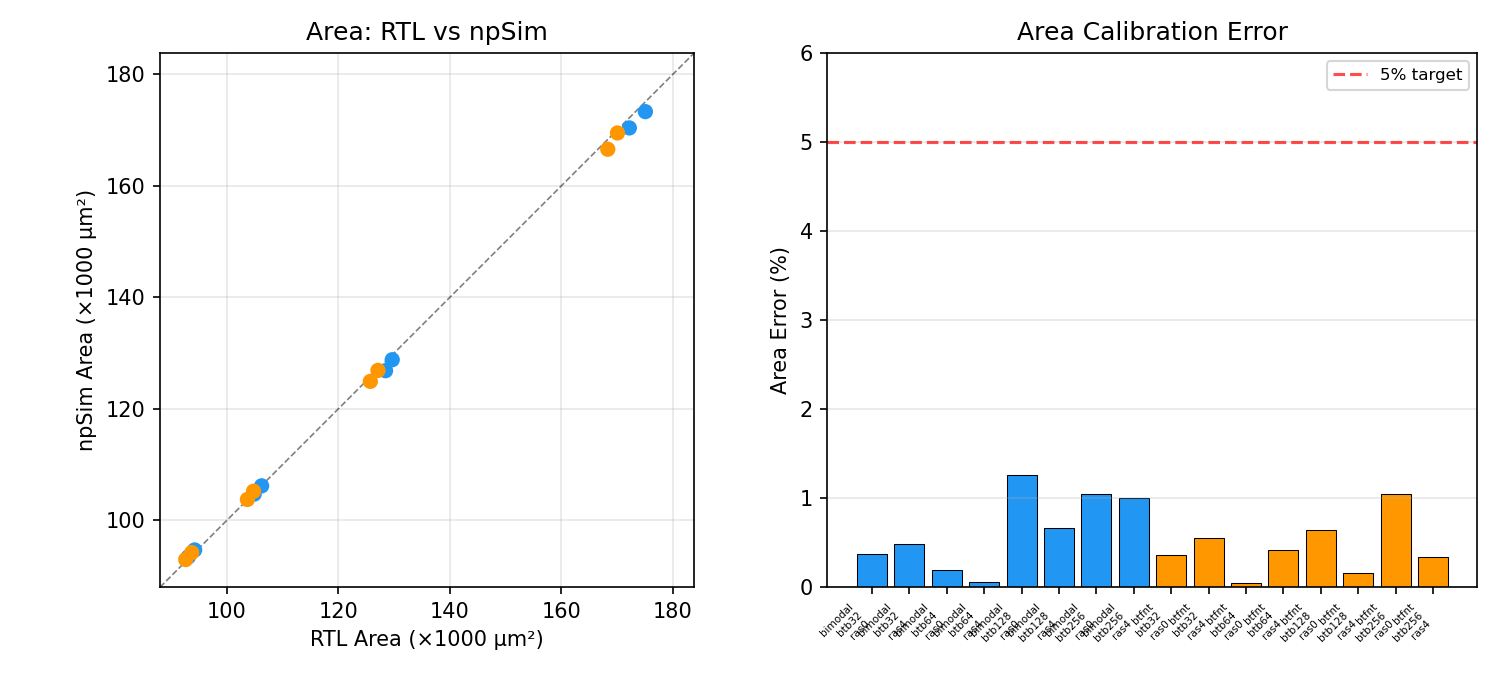
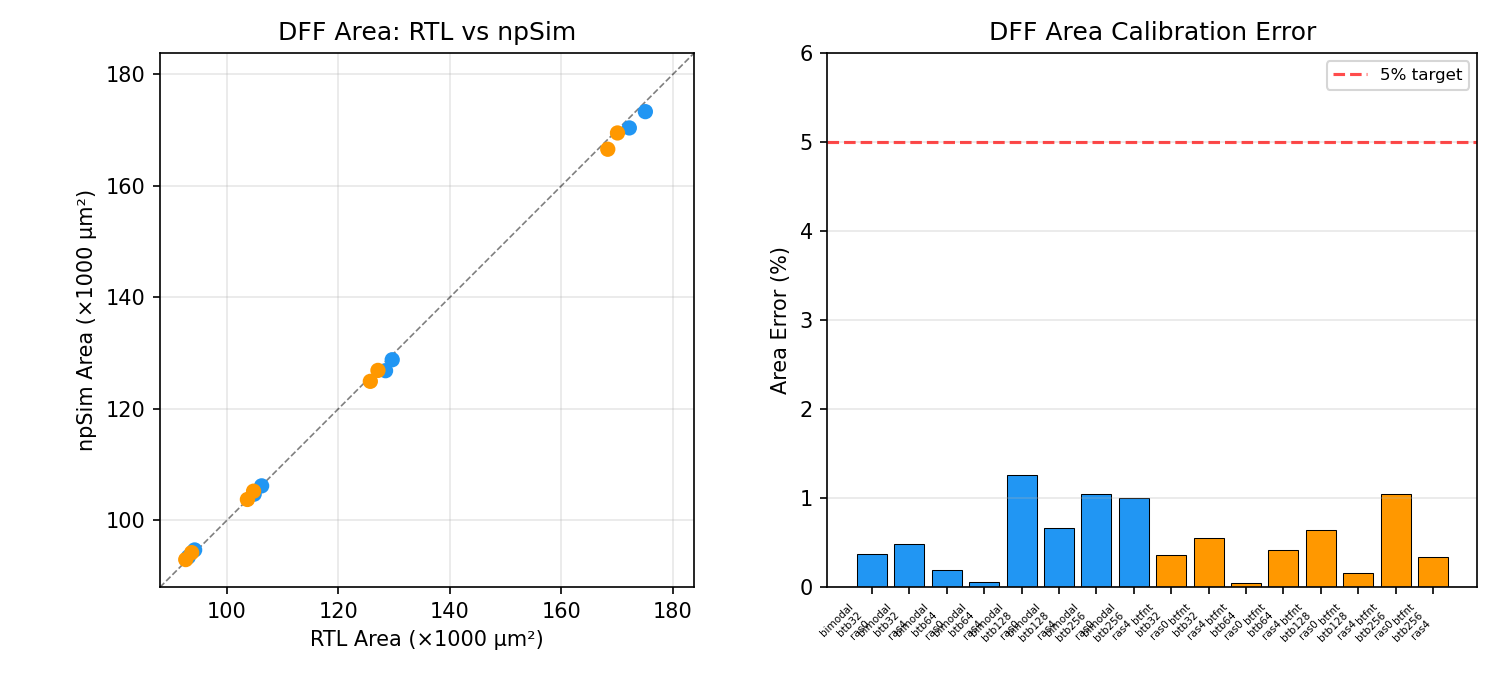
BPU area: SRAM BTB model and calibration plots
- BTBBase: support sramlib flag; when true, report tag/target arrays
  as sram_macro objects instead of timing_bits (DFF). validArr/typeArr
  remain DFF.
- CompressedBTB: pass sramlib flag through constructor.
- create_btb(): forward sram_dff flag from CLI to CompressedBTB.
- gen_bpu_plots.py: add SRAM area calibration plot, DFF-vs-SRAM
  comparison plot. Hardcode both DFF and SRAM RTL area data.
- SRAM area calibration: max error 3.4%, avg ~2.3% across 16 configs.
- DFF area calibration: unchanged, max error 1.27%.

Changed region(s): [[0.644, 0.0311, 0.8893, 0.0622], [0.184, 0.0311, 0.3987, 0.0622]]

diff --git a/visual/plots/gen_bpu_plots.py b/visual/plots/gen_bpu_plots.py
@@ -37,6 +37,28 @@ RTL_AREA = {
     ("btfnt", 256, 0): 168313, ("btfnt", 256, 4): 170057,
 }
 
+RTL_AREA_SRAM = {
+    ("bimodal", 32, 0): 30432, ("bimodal", 32, 4): 31761,
+    ("bimodal", 64, 0): 32593, ("bimodal", 64, 4): 34284,
+    ("bimodal", 128, 0): 36742, ("bimodal", 128, 4): 39366,
+    ("bimodal", 256, 0): 45194, ("bimodal", 256, 4): 49116,
+    ("btfnt", 32, 0): 29963, ("btfnt", 32, 4): 31347,
+    ("btfnt", 64, 0): 31424, ("btfnt", 64, 4): 33040,
+    ("btfnt", 128, 0): 34289, ("btfnt", 128, 4): 36694,
+    ("btfnt", 256, 0): 40072, ("btfnt", 256, 4): 43939,
+}
+
+NPSIM_AREA_SRAM = {
+    ("bimodal", 32, 0): 31409, ("bimodal", 32, 4): 32656,
+    ("bimodal", 64, 0): 33406, ("bimodal", 64, 4): 34892,
+    ("bimodal", 128, 0): 37360, ("bimodal", 128, 4): 39323,
+    ("bimodal", 256, 0): 45186, ("bimodal", 256, 4): 48105,
+    ("btfnt", 32, 0): 30932, ("btfnt", 32, 4): 32178,
+    ("btfnt", 64, 0): 32450, ("btfnt", 64, 4): 33936,
+    ("btfnt", 128, 0): 35448, ("btfnt", 128, 4): 37412,
+    ("btfnt", 256, 0): 41364, ("btfnt", 256, 4): 44283,
+}
+
 
 def load_rtl():
     with open(RTL_RESULTS) as f:
@@ -237,7 +259,7 @@ def plot_cali_area(npsim_areas):
     ax1.plot([mn, mx], [mn, mx], "k--", alpha=0.5, linewidth=0.8)
     ax1.set_xlabel("RTL Area (×1000 µm²)")
     ax1.set_ylabel("npSim Area (×1000 µm²)")
-    ax1.set_title("Area: RTL vs npSim")
+    ax1.set_title("DFF Area: RTL vs npSim")
     ax1.set_xlim(mn, mx)
     ax1.set_ylim(mn, mx)
     ax1.set_aspect("equal")
@@ -250,13 +272,99 @@ def plot_cali_area(npsim_areas):
     ax2.set_xticklabels([l.replace("_", "\n") for l in labels],
                          fontsize=5, rotation=45, ha="right")
     ax2.set_ylabel("Area Error (%)")
-    ax2.set_title("Area Calibration Error")
+    ax2.set_title("DFF Area Calibration Error")
     ax2.legend(fontsize=8)
     ax2.set_ylim(0, 6)
     ax2.grid(axis="y", alpha=0.3)
 
     fig.tight_layout()
     fig.savefig(CALI_DIR / "area_calibration.png", dpi=150)
+    plt.close(fig)
+
+
+def plot_cali_area_sram():
+    fig, (ax1, ax2) = plt.subplots(1, 2, figsize=(10, 4.5))
+
+    rtl_vals, sim_vals, labels, colors = [], [], [], []
+    errs = []
+    for bp in BP_TYPES:
+        for btb in BTB_SIZES:
+            for ras in RAS_SIZES:
+                key = (bp, btb, ras)
+                if key in RTL_AREA_SRAM and key in NPSIM_AREA_SRAM:
+                    rv = RTL_AREA_SRAM[key]
+                    sv = NPSIM_AREA_SRAM[key]
+                    rtl_vals.append(rv / 1000)
+                    sim_vals.append(sv / 1000)
+                    err = abs(sv - rv) / rv * 100
+                    errs.append(err)
+                    labels.append(f"{bp}_btb{btb}_ras{ras}")
+                    colors.append(COLORS[bp])
+
+    ax1.scatter(rtl_vals, sim_vals, c=colors, s=40, zorder=5)
+    mn = min(rtl_vals + sim_vals) * 0.95
+    mx = max(rtl_vals + sim_vals) * 1.05
+    ax1.plot([mn, mx], [mn, mx], "k--", alpha=0.5, linewidth=0.8)
+    ax1.set_xlabel("RTL Area (×1000 µm²)")
+    ax1.set_ylabel("npSim Area (×1000 µm²)")
+    ax1.set_title("SRAM Area: RTL vs npSim")
+    ax1.set_xlim(mn, mx)
+    ax1.set_ylim(mn, mx)
+    ax1.set_aspect("equal")
+    ax1.grid(alpha=0.3)
+
+    x = np.arange(len(errs))
+    ax2.bar(x, errs, color=colors, edgecolor="black", linewidth=0.5)
+    ax2.axhline(y=5, color="red", linestyle="--", alpha=0.7, label="5% target")
+    ax2.set_xticks(x)
+    ax2.set_xticklabels([l.replace("_", "\n") for l in labels],
+                         fontsize=5, rotation=45, ha="right")
+    ax2.set_ylabel("Area Error (%)")
+    ax2.set_title("SRAM Area Calibration Error")
+    ax2.legend(fontsize=8)
+    ax2.set_ylim(0, 6)
+    ax2.grid(axis="y", alpha=0.3)
+
+    fig.tight_layout()
+    fig.savefig(CALI_DIR / "area_calibration_sram.png", dpi=150)
+    plt.close(fig)
+
+
+def plot_dff_vs_sram_area():
+    fig, ax = plt.subplots(figsize=(8, 5))
+    x = np.arange(len(BTB_SIZES))
+    w = 0.1
+    offsets = {
+        ("bimodal", 0, "dff"): -3.5, ("bimodal", 0, "sram"): -2.5,
+        ("bimodal", 4, "dff"): -1.5, ("bimodal", 4, "sram"): -0.5,
+        ("btfnt", 0, "dff"): 0.5, ("btfnt", 0, "sram"): 1.5,
+        ("btfnt", 4, "dff"): 2.5, ("btfnt", 4, "sram"): 3.5,
+    }
+    for bp in BP_TYPES:
+        for ras in RAS_SIZES:
+            dff_vals = [RTL_AREA[(bp, btb, ras)] / 1000
+                        for btb in BTB_SIZES]
+            sram_vals = [RTL_AREA_SRAM[(bp, btb, ras)] / 1000
+                         for btb in BTB_SIZES]
+            off_d = offsets[(bp, ras, "dff")]
+            off_s = offsets[(bp, ras, "sram")]
+            ax.bar(x + off_d * w, dff_vals, w,
+                   color=COLORS[bp], alpha=0.4,
+                   edgecolor="black", linewidth=0.5,
+                   label=f"{bp} R{ras} DFF" if ras == 0 else "")
+            ax.bar(x + off_s * w, sram_vals, w,
+                   color=COLORS[bp], alpha=0.9,
+                   hatch="//", edgecolor="black", linewidth=0.5,
+                   label=f"{bp} R{ras} SRAM" if ras == 0 else "")
+    ax.set_xticks(x)
+    ax.set_xticklabels([str(s) for s in BTB_SIZES])
+    ax.set_xlabel("BTB Entries")
+    ax.set_ylabel("Area (×1000 µm²)")
+    ax.set_title("DFF vs SRAM Area (RTL, 1kB iCache)")
+    ax.legend(fontsize=7, ncol=2)
+    ax.grid(axis="y", alpha=0.3)
+    fig.tight_layout()
+    fig.savefig(PERF_DIR / "dff_vs_sram_area.png", dpi=150)
     plt.close(fig)
 
 
@@ -302,8 +410,10 @@ def main():
     plot_rtl_bp_accuracy(rtl_data)
     plot_rtl_mispred_breakdown(rtl_data)
     plot_rtl_area_vs_ipc(rtl_data)
+    plot_dff_vs_sram_area()
     plot_cali_ipc(cali_data, rtl_data)
     plot_cali_area(npsim_areas)
+    plot_cali_area_sram()
 
     print("Generated plots:")
     for d in [PERF_DIR, CALI_DIR]:

diff --git a/src/main.cc b/src/main.cc
@@ -279,7 +279,8 @@ create_btb() {
   if (btb_entries_pow2 == 0) {
     return std::make_unique<branchSim::NoBTB>();
   }
-  return std::make_unique<branchSim::CompressedBTB>("BTB", btb_entries_pow2);
+  return std::make_unique<branchSim::CompressedBTB>(
+    "BTB", btb_entries_pow2, 10, 20, sram_dff);
 }
 
 std::unique_ptr<BranchUnit>
